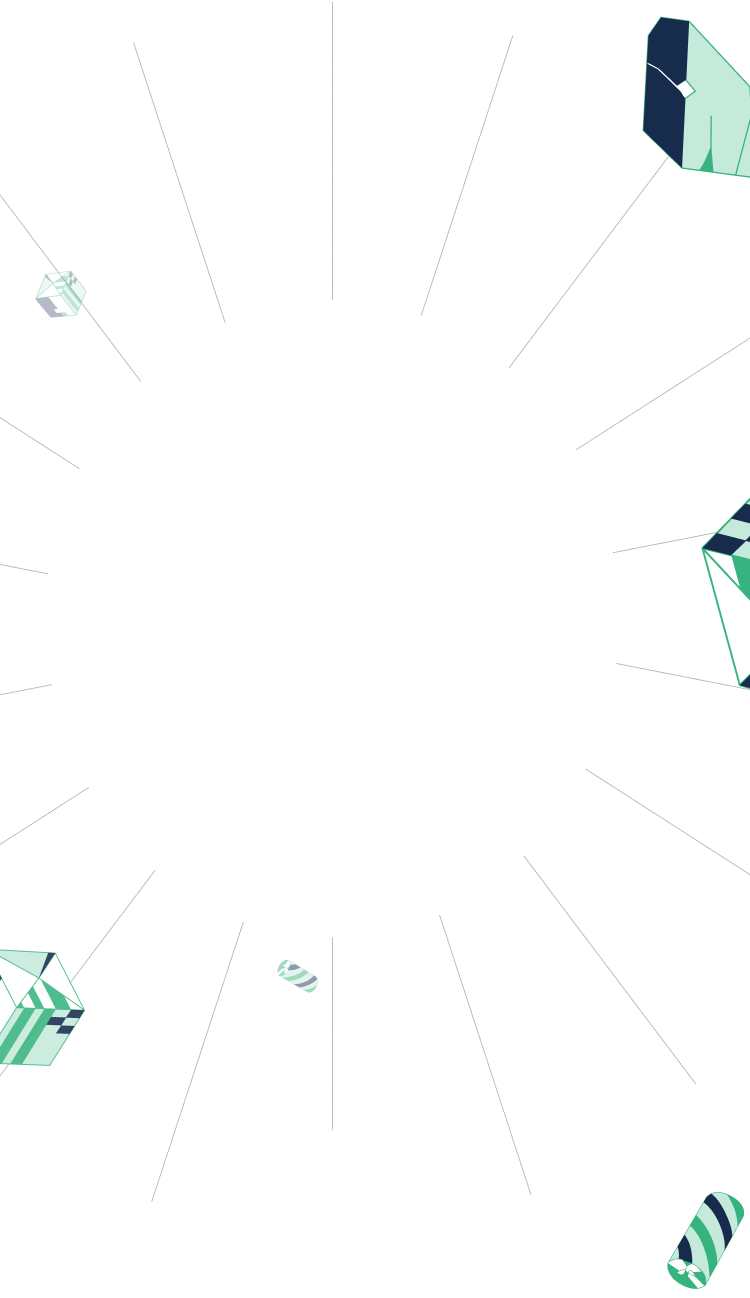
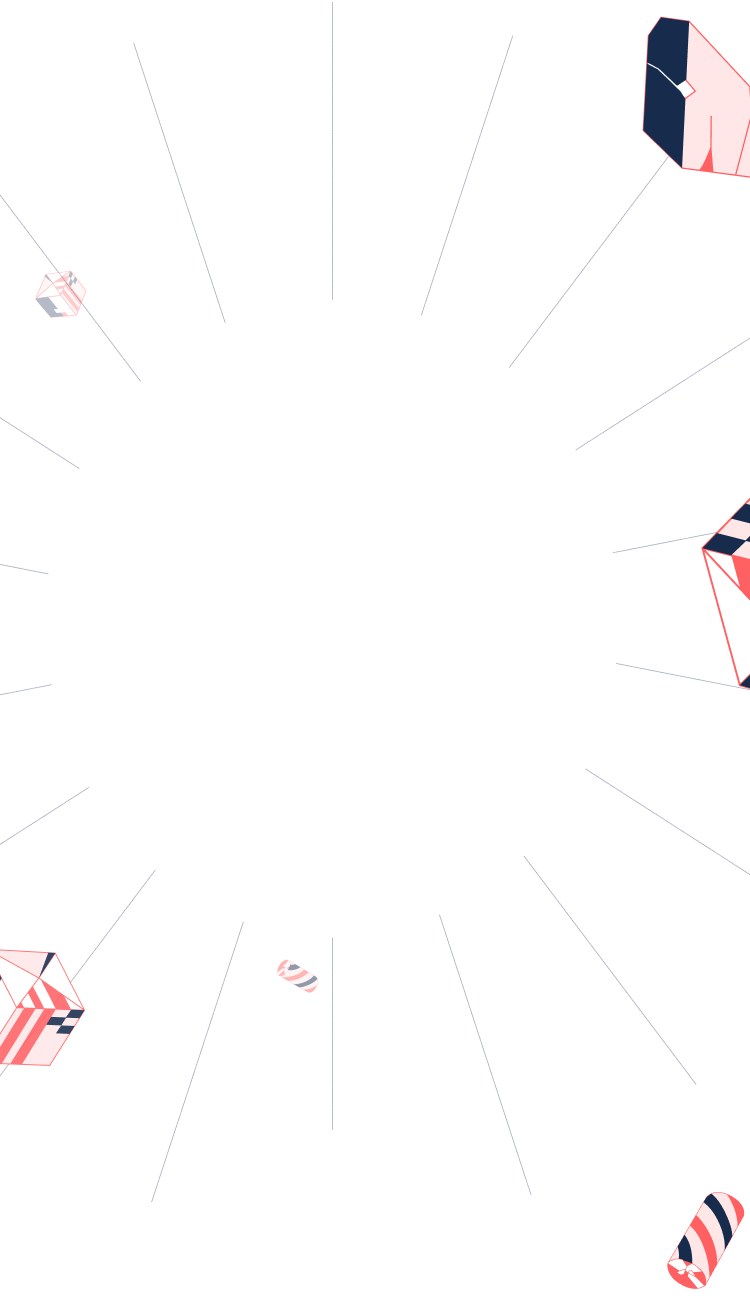
change color template: from green to red

diff --git a/style.css b/style.css
@@ -4,9 +4,9 @@ body {
   padding: 0;
   font-family: 'Inter var', sans-serif;
 
-  --color-primary-dark: #36b37e;
-  --color-primary: #c5e9da;
-  --color-primary-light: #ebf0ee;
+  --color-primary-dark: #ff6163;
+  --color-primary: #ffe7e8;
+  --color-primary-light: #f9eaea;
   --color-secondary: #172b4d;
   --color-text: #28352f;
 }
